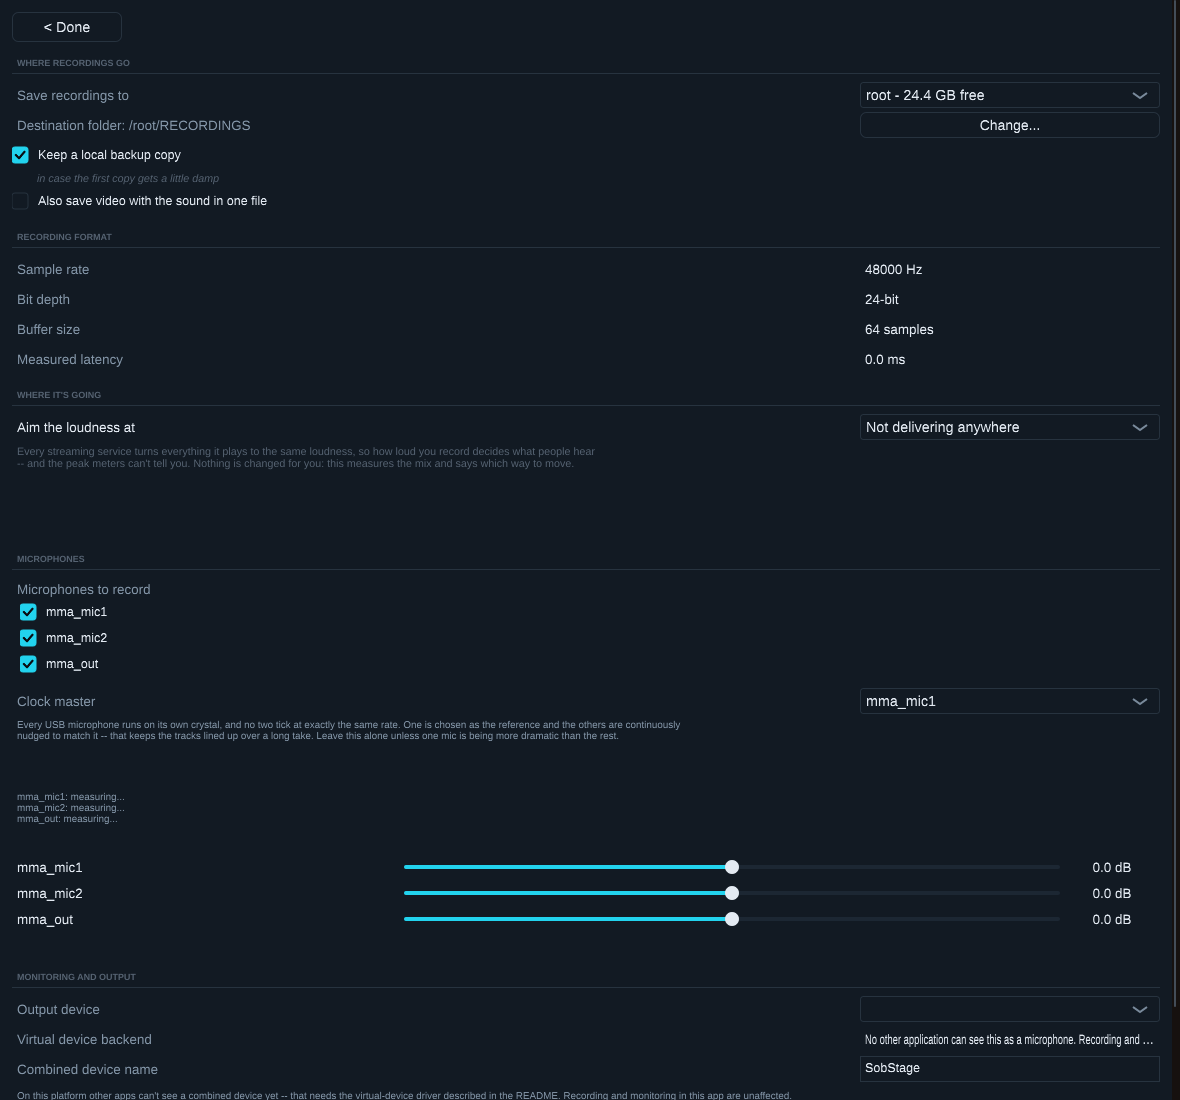
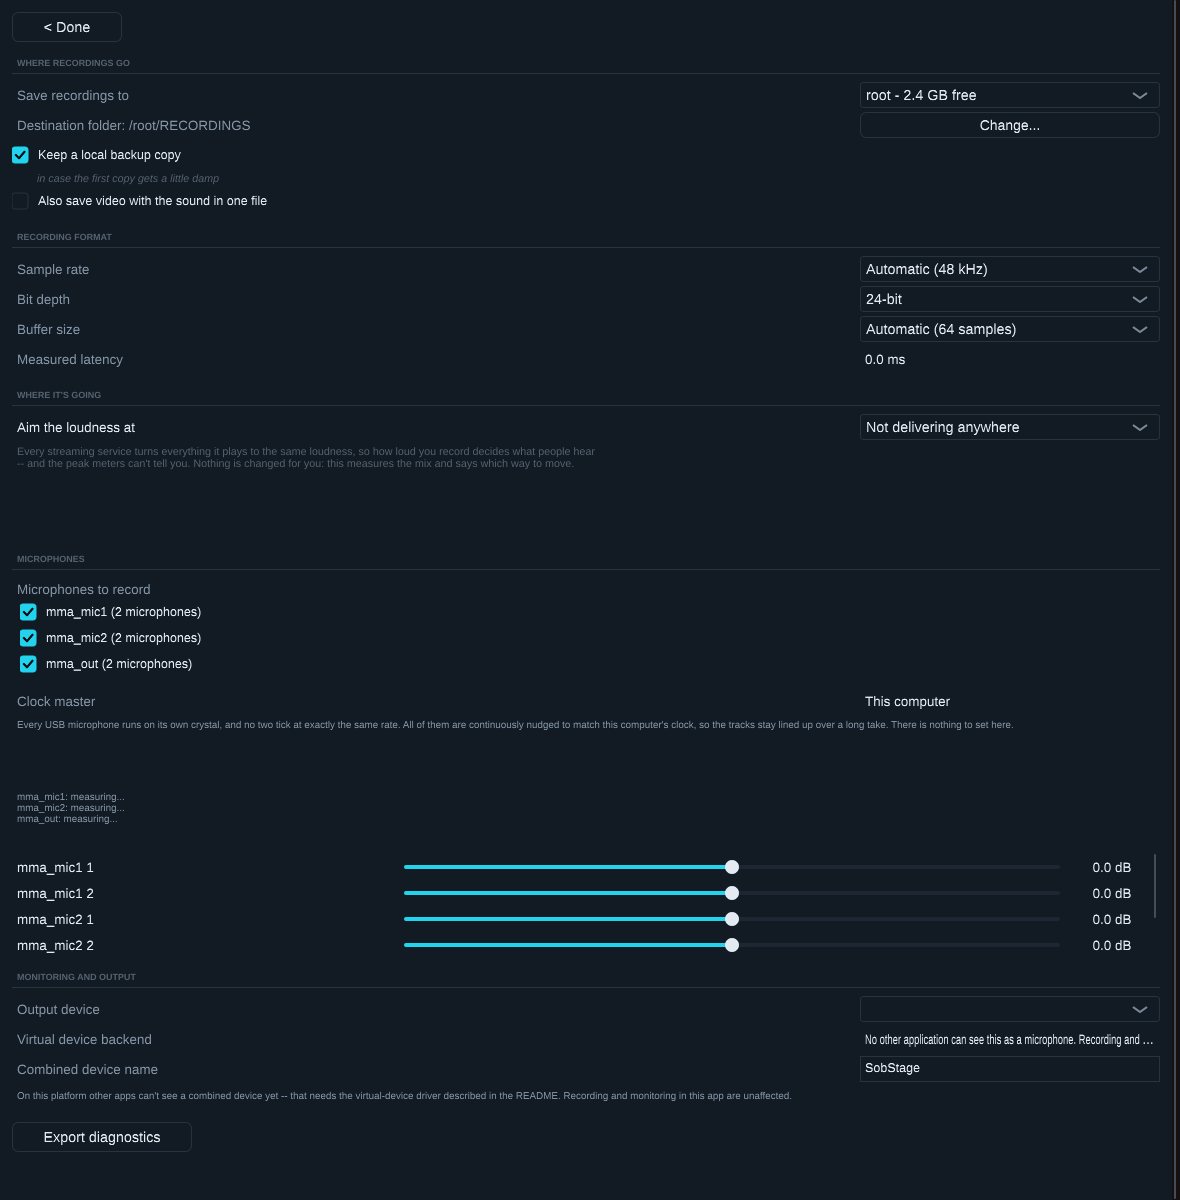
Make this computer the clock master, always, and drop the picker (v1.5.1) (#70)
* Fix the blank Clock master picker, and retake the Settings screenshot

Since v1.2.1 the microphone strips are named per input -- "Scarlett 2i2 1",
"Scarlett 2i2 2" -- and the Clock master picker was filled from those names.
Its selection is a device name, "Scarlett 2i2", because §3.1's clock master is
a device: one box carries the clock. The two never matched, so the picker sat
blank while the app chose a master correctly underneath. Found by retaking a
README screenshot and noticing the empty box did not fill however long the
capture waited.

The picker now lists included devices through getClockMasterChoices(), the
same name space getClockMasterName() and setClockMasterByName() already use,
so the three cannot drift apart again.

The README's Settings screenshot was two versions stale: sample rate, bit
depth and buffer size as read-only text, microphone rows without their input
counts, one trim slider per device. Retaken from this build at the same
1180-wide window, showing the three pickers, "(2 microphones)" on the rows,
per-input trims and the populated Clock master. The Settings paragraph now
describes the controls.

405 tests, e2e_capture, soak_drift, live_capture, sim_capture_mac,
sim_coreaudio (44 checks) and sim_wasapi (43 checks) all pass; the app builds.

Claude-Session: https://claude.ai/code/session_01EjRyKrJFp9xGAsBx6DTCVp

* Make this computer the clock master, always, and drop the picker
[…]

diff --git a/Source/App/Application.cpp b/Source/App/Application.cpp
@@ -397,11 +397,10 @@ void Application::publishAggregateDevice()
         if (d.included)
             uids.push_back (d.identity.locationId); // the CoreAudio device UID on macOS
 
-    // §3.1: same clock master as the in-app capture path, so the aggregate and
-    // the app agree about whose crystal is the truth.
-    std::string master;
-    if (const auto* m = deviceManager.selectDefaultMaster())
-        master = m->identity.locationId;
+    // The clock master is this computer, so the aggregate is left on the
+    // system's own clock rather than pinned to one microphone's crystal --
+    // the same reference the in-app capture path corrects onto.
+    const std::string master;
 
     const auto name = aggregateName.toStdString();
 
@@ -434,58 +433,16 @@ void Application::applyClockMaster()
     if (capture == nullptr)
         return;
 
-    // §3.1 / §3.3: DeviceManager owns *which microphone* should be the timebase
-    // -- lowest measured drift, the user's override, or the next best after the
-    // master leaves. What it cannot own is which channel that is, because it
-    // tracks the devices the OS reports right now and a take's channel list is
-    // frozen (§6.5).
+    // The clock master is this computer, always.
     //
-    // This used to count included devices to find the index, which is the same
-    // number only until a microphone is unplugged mid-take. After that the
-    // device list is short one entry and every index past the gap is off by
-    // one, so setMasterChannel() named the wrong channel -- and the channel it
-    // named could be the unplugged one, writing silence, with every other
-    // microphone resampled onto it.
-    std::vector<std::string> rankedIds;
-    for (const auto* d : deviceManager.rankMasterCandidates())
-        rankedIds.push_back (d->identity.key());
-
-    // capture's own channel list, since that is exactly what setMasterChannel
-    // indexes into. Outside a take it tracks the device list; during one it is
-    // the frozen list, which is the point.
-    const bool recording = capture->isRecording();
-    std::vector<std::string> channelIds;
-    std::vector<bool> channelLive;
-
-    for (const auto& ch : capture->getChannels())
-    {
-        channelIds.push_back (ch.deviceId);
-        channelLive.push_back (! recording || ! recordingEngine.isWritingSilence (ch.deviceId));
-    }
-
-    const auto resolved = resolveMasterChannel (channelIds, channelLive, rankedIds);
-    capture->setMasterChannel (resolved.channelIndex);
-
-    // §3.3: "Log the switchover timestamp in session.json." Only a change is
-    // worth a line -- this runs on every status poll, and re-confirming the
-    // same master is not an event.
-    if (recording && resolved.deviceId != appliedMasterDeviceId)
-    {
-        if (! appliedMasterDeviceId.empty())
-            midTakeDropouts.push_back ({ getElapsedRecordingSeconds(), resolved.deviceId,
-                                         resolved.deviceId.empty()
-                                             ? std::string ("Clock master lost: no live microphone is left to "
-                                                            "measure drift against. The channels stay corrected "
-                                                            "and the recording is unaffected.")
-                                             : std::string ("Clock master switched to this microphone after "
-                                                            "the previous one stopped delivering audio.") });
-
-        appliedMasterDeviceId = resolved.deviceId;
-    }
-    else if (! recording)
-    {
-        appliedMasterDeviceId = resolved.deviceId;
-    }
+    // §3.2 already corrects every microphone onto the output clock -- the
+    // timebase the headphones run on, which is the machine's own. Naming one
+    // microphone as "master" changed nothing about that path; it only moved
+    // which crystal the drift figures were quoted against, and handed the user
+    // a picker for a choice with no audible consequence. Measured against the
+    // computer instead, every microphone's figure means the same thing, no
+    // master can be unplugged mid-take, and there is nothing to choose.
+    capture->setMasterChannel (-1);
 }
 
 MonitorBus* Application::getMonitorBus()
@@ -1711,14 +1668,6 @@ const std::vector<std::string>& Application::getOutputDeviceNames() const
     return outputDeviceNames;
 }
 
-juce::String Application::getClockMasterName() const
-{
-    if (const auto* master = deviceManager.selectDefaultMaster())
-        return juce::String (master->displayName);
-
-    return {};
-}
-
 juce::String Application::getDriftReport() const
 {
     juce::StringArray lines;
@@ -1797,19 +1746,6 @@ void Application::setMicEnabledByName (const juce::String& displayName, bool ena
             restartCapture(); // the channel set changed, so the streams must be reopened
 
         saveSettings();
-        return;
-    }
-}
-
-void Application::setClockMasterByName (const juce::String& displayName)
-{
-    for (const auto& d : deviceManager.getDevices())
-    {
-        if (! d.included || juce::String (d.displayName) != displayName)
-            continue;
-
-        deviceManager.setPreferredMaster (d.identity.key());
-        applyClockMaster();
         return;
     }
 }

diff --git a/Source/UI/AdvancedPanel.cpp b/Source/UI/AdvancedPanel.cpp
@@ -50,11 +50,12 @@ AdvancedPanel::AdvancedPanel()
         l->setColour (juce::Label::textColourId, AppLookAndFeel::secondary);
     }
 
-    addAndMakeVisible (clockMasterCombo);
-    clockMasterCombo.onChange = [this] {
-        if (onClockMasterChanged)
-            onClockMasterChanged (clockMasterCombo.getText());
-    };
+    // Not a picker. The clock master is this computer, always: every
+    // microphone is corrected onto the machine's own clock, so there is
+    // nothing to choose and a choice would have had no audible consequence.
+    clockMasterValue.setText ("This computer", juce::dontSendNotification);
+    clockMasterValue.setColour (juce::Label::textColourId, AppLookAndFeel::bone);
+    addAndMakeVisible (clockMasterValue);
 
     addAndMakeVisible (outputDeviceCombo);
     outputDeviceCombo.onChange = [this] {
@@ -196,10 +197,9 @@ AdvancedPanel::AdvancedPanel()
     // know what a clock master is cannot tell whether they need to care.
     clockMasterHelpLabel.setText (
         "Every USB microphone runs on its own crystal, and no two tick at exactly "
-        "the same rate. One is chosen as the reference and the others are "
-        "continuously nudged to match it -- that keeps the tracks lined up over "
-        "a long take. Leave this alone unless one mic is being more dramatic "
-        "than the rest.",
+        "the same rate. All of them are continuously nudged to match this "
+        "computer's clock, so the tracks stay lined up over a long take. "
+        "There is nothing to set here.",
         juce::dontSendNotification);
     clockMasterHelpLabel.setJustificationType (juce::Justification::topLeft);
     clockMasterHelpLabel.setMinimumHorizontalScale (1.0f);
@@ -409,11 +409,6 @@ void AdvancedPanel::setStorageVolumes (const std::vector<VolumeChoice>& volumes)
             storageCombo.setSelectedItemIndex (static_cast<int> (i), juce::dontSendNotification);
 }
 
-void AdvancedPanel::setClockMasters (const juce::StringArray& names, const juce::String& selected)
-{
-    fillCombo (clockMasterCombo, names, selected);
-}
-
 void AdvancedPanel::setTrimChannels (const juce::StringArray& micNames,
                                      const std::function<float (int)>& currentTrimDb)
 {
@@ -600,7 +595,7 @@ void AdvancedPanel::resized()
     }
     area.removeFromTop (10);
 
-    row (clockMasterLabel, clockMasterCombo);
+    row (clockMasterLabel, clockMasterValue);
     clockMasterHelpLabel.setBounds (area.removeFromTop (64));
     area.removeFromTop (8);
 

diff --git a/Source/UI/AdvancedPanel.h b/Source/UI/AdvancedPanel.h
@@ -79,7 +79,6 @@ public:
     struct VolumeChoice { juce::String label, path; bool current = false; };
     void setStorageVolumes (const std::vector<VolumeChoice>& volumes);
 
-    void setClockMasters (const juce::StringArray& names, const juce::String& selected);
 
     /// §4: one trim slider per microphone, rebuilt when the mic set changes.
     /// currentTrimDb supplies each row's starting value.
@@ -113,7 +112,6 @@ public:
     /// missing -- named here, before a take, rather than in an alert after one.
     void setCombineVideoState (bool on, const juce::String& unavailableReason);
     std::function<void()> onDestinationFolderClicked;
-    std::function<void (const juce::String&)> onClockMasterChanged;
     std::function<void (const juce::String&, bool)> onMicEnabledChanged;
     std::function<void (const juce::String&)> onStorageVolumeChosen;
     std::function<void (const juce::String&)> onOutputDeviceChanged;
@@ -124,8 +122,7 @@ private:
     juce::ComboBox bitDepthCombo, bufferSizeCombo;
     juce::String lastBitDepthSignature, lastBufferSignature;
     juce::Label latencyLabel, latencyValue;
-    juce::Label clockMasterLabel;
-    juce::ComboBox clockMasterCombo;
+    juce::Label clockMasterLabel, clockMasterValue;
     juce::Label driftLabel; // per-device drift in PPM, populated externally as a multi-line label
     juce::Viewport trimViewport; // per-microphone trim sliders, one row per device
     juce::Component trimContainer;

diff --git a/Source/App/Application.h b/Source/App/Application.h
@@ -217,13 +217,10 @@ public:
     /// Display names of every candidate monitor output, and of every mic that
     /// could serve as §3.1 clock master.
     const std::vector<std::string>& getOutputDeviceNames() const;
-    juce::String getClockMasterName() const;
     /// §3.2 per-device drift, one line per mic, or a plain line saying the
     /// 60-second measurement window has not elapsed yet (§3.1).
     juce::String getDriftReport() const;
     void setOutputDeviceByName (const juce::String& displayName);
-    /// §3.1: an explicit clock-master choice, by display name.
-    void setClockMasterByName (const juce::String& displayName);
 
     /// Every microphone the OS reports, in enumeration order, with whether the
     /// user currently has it selected. Includes deselected ones -- the point of

diff --git a/Source/UI/MainComponent.cpp b/Source/UI/MainComponent.cpp
@@ -112,9 +112,6 @@ MainComponent::MainComponent (Application& app)
         application.setChannelTrimDb (index, trimDb);
     };
 
-    advancedPanel.onClockMasterChanged = [this] (const juce::String& name) {
-        application.setClockMasterByName (name);
-    };
 
     advancedPanel.onAggregateNameChanged = [this] (const juce::String& name) {
         application.setAggregateDeviceName (name);
@@ -775,7 +772,6 @@ void MainComponent::refreshAdvanced()
         volumes.push_back ({ v.displayName, v.path, v.isCurrent });
     advancedPanel.setStorageVolumes (volumes);
 
-    advancedPanel.setClockMasters (micNames, application.getClockMasterName());
 
     // Rebuilt only when the mic set changes: doing it every tick would reset a
     // slider out from under the user mid-drag.

diff --git a/README.md b/README.md
@@ -114,9 +114,16 @@ files are going, the monitor level — sits quietly in the footer.
 
 Settings is one screen with a Done button at the top left. Where recordings go
 comes first, because picking a card before a take is what most people open it
-for. Then the format, where the take is being delivered (which sets the loudness
-target), and which microphones to record and which one carries the clock — each
-explained where it is set, rather than assumed. Opening it grows the window to
+for. Then the format — sample rate, bit depth and buffer size, each a real
+control rather than a readout, the way Audio MIDI Setup treats them: pick it,
+the app tries it, and if the hardware refuses the main screen says so by name.
+Automatic is the default for rate and buffer, and it stays on whatever rate the
+interface is already running rather than forcing one the hardware may refuse.
+Then where the take is being delivered (which sets the loudness target), and
+which microphones to record — each explained where it is set, rather than
+assumed. Every microphone is locked to this computer's clock, so there is no
+clock master to choose. An interface with several inputs is one
+row that says how many microphones it carries. Opening it grows the window to
 fit the panel, so nothing arrives already scrolled.
 
 <p align="center">
@@ -241,7 +248,7 @@ alternative JUCE's paid tiers would allow.
 
 ## What to expect on your platform
 
-This is **v1.5.0**. The recording
+This is **v1.5.1**. The recording
 engine is mature — it is covered by 405
 automated tests plus three harnesses that run the real capture path and verify
 the resulting audio files, all on every commit. What differs by platform is how

diff --git a/CHANGELOG.md b/CHANGELOG.md
@@ -1,5 +1,26 @@
 # Changelog
 
+## v1.5.1 -- 2026-09-05
+
+### Changed -- the clock master is this computer, always; the picker is gone
+
+Every microphone was already corrected onto the output clock -- the machine's
+own. Naming one microphone as "master" changed nothing about that path; it
+only moved which crystal the drift figures were quoted against, and handed the
+user a picker for a choice with no audible consequence. (The picker had also
+been showing nothing selected since v1.2.1, because it was filled with
+per-input strip names while its selection was a device name.)
+
+Drift is now measured against this computer, so every microphone's figure
+means the same thing, no master can be unplugged mid-take, and Settings shows
+"This computer" where the picker was.
+
+### Documentation
+
+The Settings screenshot in the README was two versions stale: it showed sample
+rate, bit depth and buffer size as read-only text, and the microphone rows
+without their input counts. Retaken from the current build.
+
 ## v1.5.0 -- 2026-09-05
 
 ### Added -- sample rate, bit depth and buffer size are controls, like Audio MIDI Setup
